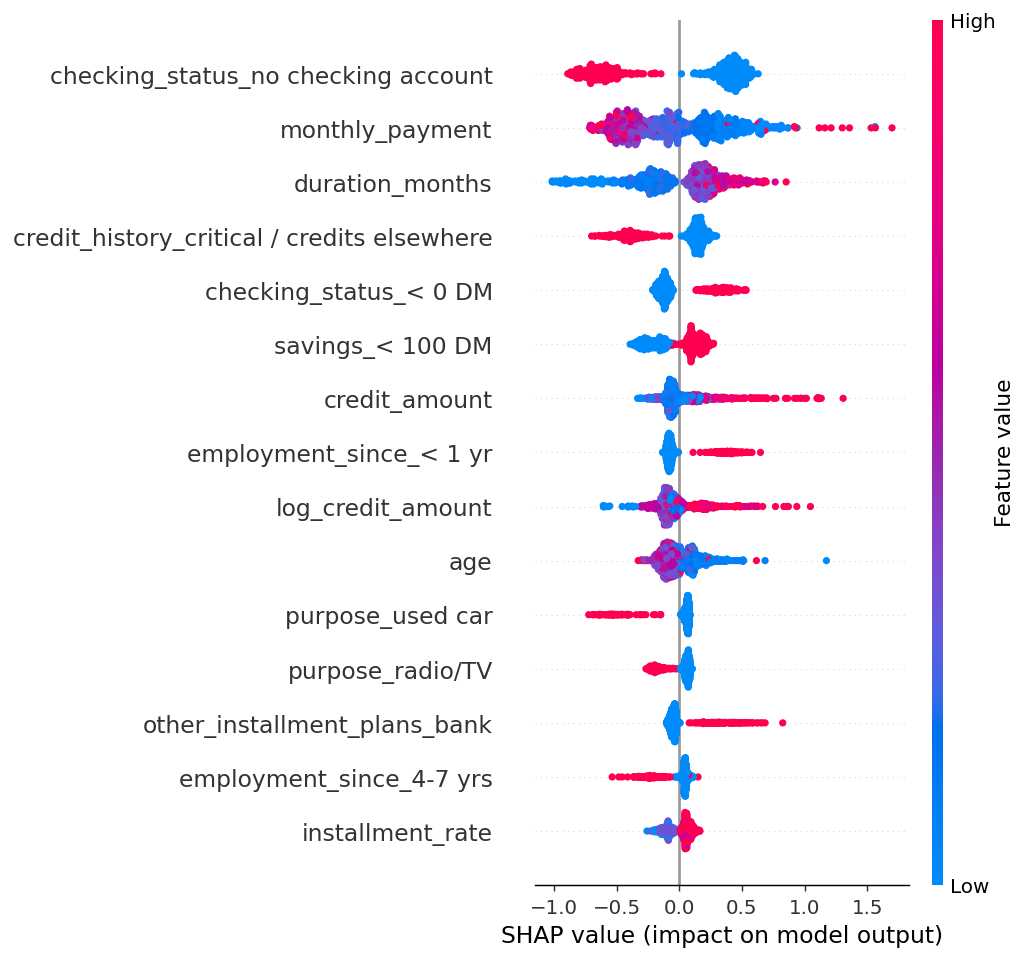
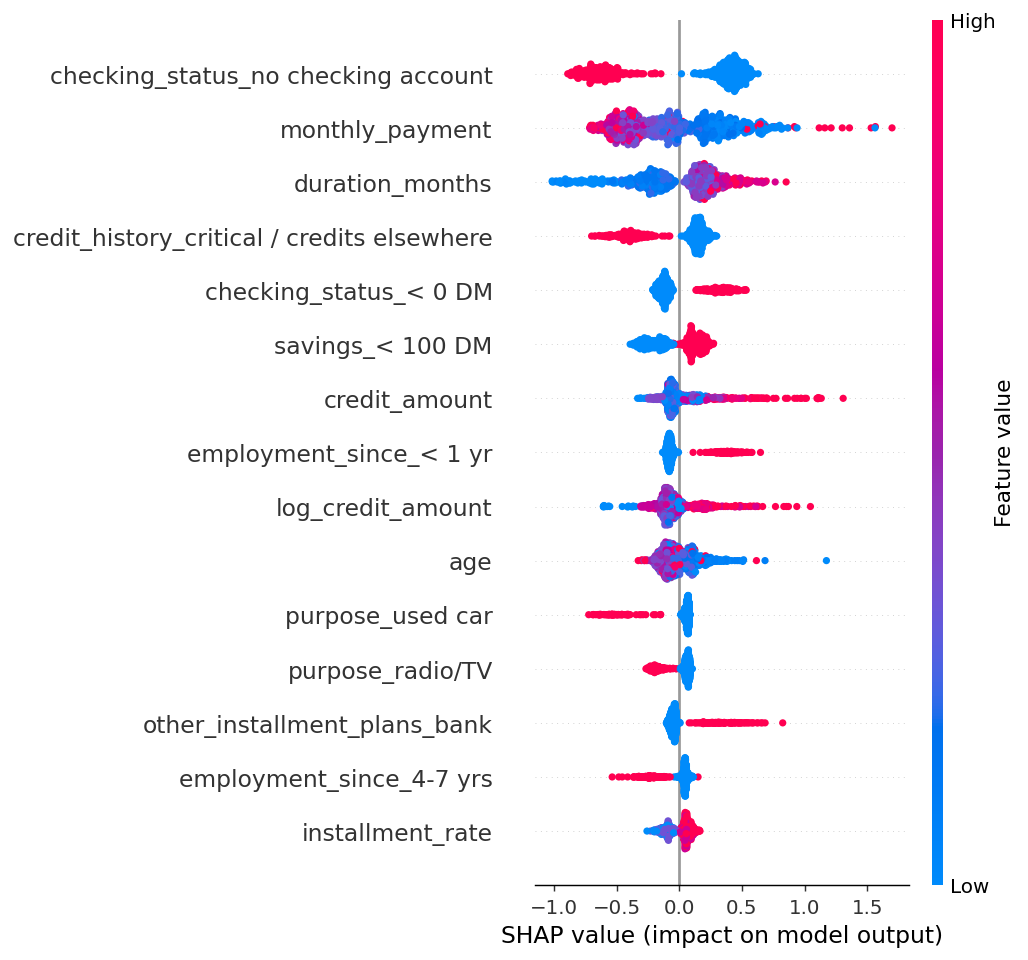
Updated to fix errors on dashboard

diff --git a/src/bundle.py b/src/bundle.py
@@ -1,5 +1,4 @@
-"""Step 13: the single object shipped to production. 
-API and dashboard both call ModelBundle.score()."""
+"""Step 13: the single object shipped to production. API and dashboard both call ModelBundle.score()."""
 from dataclasses import dataclass, field
 from pathlib import Path
 
@@ -26,8 +25,7 @@ class ModelBundle:
     metadata: dict = field(default_factory=dict)
 
     def score(self, raw: pd.DataFrame) -> pd.DataFrame:
-        """raw = frame with the 20 UCI columns using UCI CODES (A11, A12, ...). 
-        Raises ValueError on bad codes."""
+        """raw = frame with the 20 UCI columns using UCI CODES (A11, A12, ...). Raises ValueError on bad codes."""
         df = GermanCreditData.prepare(raw)
         pd_ = np.asarray(self.champion.predict_pd(df))
         flags = self.anomaly.score(df)

diff --git a/src/explain.py b/src/explain.py
@@ -9,8 +9,7 @@ class RiskDriverExplainer:
     @staticmethod
     def odds_ratios(logreg_model) -> pd.DataFrame:
         """exp(coef) on the one-hot / standardised design. Numeric rows: odds multiplier per +1 SD.
-        Category rows: odds multiplier relative to the AVERAGE applicant 
-        (L2 shrinkage, no reference level)."""
+        Category rows: odds multiplier relative to the AVERAGE applicant (L2 shrinkage, no reference level)."""
         prep, clf = logreg_model.pipeline.named_steps["prep"], logreg_model.pipeline.named_steps["clf"]
         names = [n.split("__", 1)[1] for n in prep.get_feature_names_out()]
         coef = clf.coef_[0]

diff --git a/app/dashboard.py b/app/dashboard.py
@@ -13,7 +13,7 @@ from src.bundle import ModelBundle
 
 TABLES, FIGS = ROOT / "reports" / "tables", ROOT / "reports" / "figures"
 st.set_page_config(page_title="Credit Risk", layout="wide")
-st.title("Credit risk dashboard - German Credit")
+st.title("Credit Risk Software - German Credit")
 
 
 def table(name, caption=None):
@@ -21,7 +21,7 @@ def table(name, caption=None):
     if p.exists():
         if caption:
             st.caption(caption)
-        st.dataframe(pd.read_csv(p), use_container_width=True)
+        st.dataframe(pd.read_csv(p), width="stretch")
     else:
         st.info(f"{name}.csv not found - run the pipeline first.")
 

diff --git a/src/policy.py b/src/policy.py
@@ -25,7 +25,7 @@ class PolicySimulator:
                 "expected_profit_DM": profit, "profit_per_applicant_DM": profit / n}
 
     def bootstrap_ci(self, approve, y_bad, level=0.95) -> tuple:
-        """Cost per applicant is noisy on ~250 test rows: report an interval, not just a number."""
+        """Cost per applicant is noisy on ~200 test rows: report an interval, not just a number."""
         a, y = np.asarray(approve).astype(bool), np.asarray(y_bad).astype(bool)
         vals = []
         for _ in range(self.n_boot):
